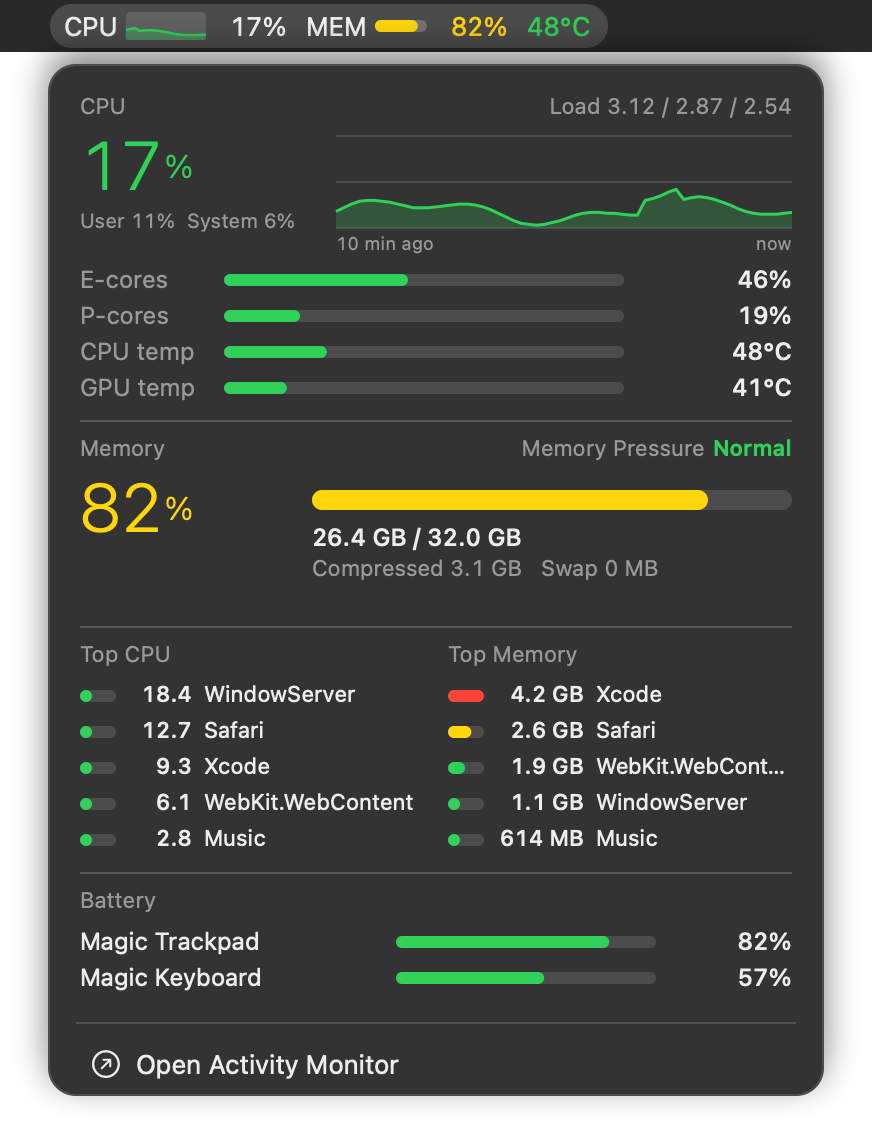
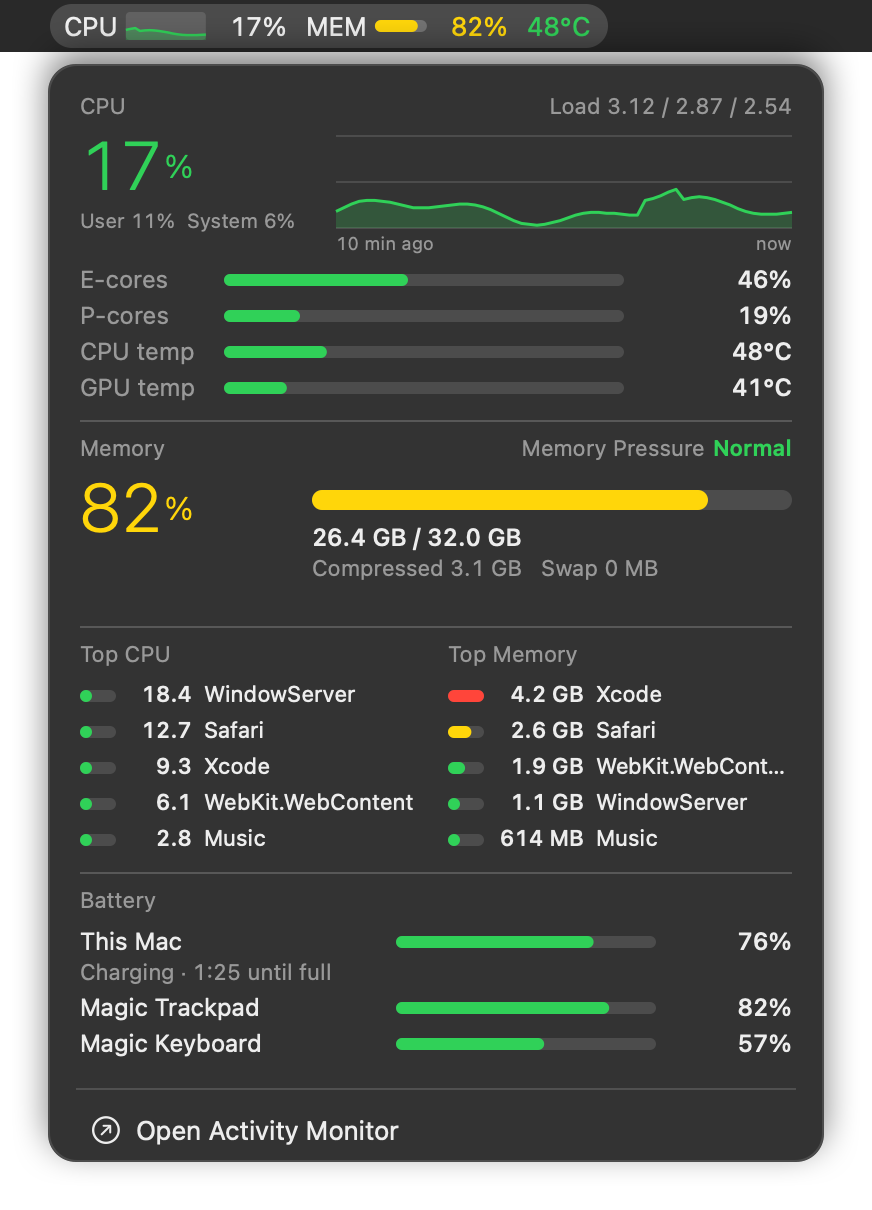
sysmon: MacBook の本体のバッテリーの残量と、充電の状態・残り時間を出す
IOKit の電源の API (IOPSCopyPowerSourcesInfo) から、本体のバッテリーの残量、
電源につながっているか、充電中か、充電済みか、残り時間・満充電までの時間を
読む。カードのバッテリーの節の先頭に「この Mac」の行を足し、その下に状態を出す。

  充電中・満充電まで 1:25 / バッテリー駆動・残り 4:10 /
  電源に接続・充電済み / 電源に接続・充電していない (時間が分からなければ「計算中…」)

API を呼ぶだけで軽いので、Bluetooth 機器 (60 秒ごとに ioreg を起動する) と違い
毎回 (10 秒ごと) 読む。デスクトップには本体のバッテリーが無いので、表示は変わらない。
README の画像のサンプルにも、充電中の本体のバッテリーを足した。

diff --git a/Sources/sysmon/main.swift b/Sources/sysmon/main.swift
@@ -32,6 +32,7 @@ import Shared
 #endif
 import Darwin
 import IOKit
+import IOKit.ps
 
 struct CPU: Codable {
     let total: Double
@@ -64,6 +65,28 @@ struct Proc: Codable {
 struct Battery: Codable {
     let name: String
     let percent: Double
+    // 以下は Mac 本体のバッテリーのときだけ
+    var `internal`: Bool? = nil
+    var external: Bool? = nil // 電源につながっている
+    var charging: Bool? = nil
+    var charged: Bool? = nil
+    var minutes: Int? = nil   // 残り時間 (電源につながっていないとき) か満充電までの時間。分からなければ nil
+}
+
+// 本体のバッテリーの状態の文。例: 「充電中・満充電まで 1:25」
+func batteryStatus(_ b: Battery) -> String? {
+    guard b.internal == true else { return nil }
+    let time = b.minutes.map { String(format: "%d:%02d", $0 / 60, $0 % 60) }
+    let sep = L("・", " · ")
+    if b.external != true {
+        return L("バッテリー駆動", "On battery") + sep + (time.map { L("残り \($0)", "\($0) remaining") } ?? L("計算中…", "Calculating…"))
+    }
+    if b.charged == true || b.percent >= 100 { return L("電源に接続", "On power") + sep + L("充電済み", "Fully charged") }
+    if b.charging == true {
+        return L("充電中", "Charging") + sep + (time.map { L("満充電まで \($0)", "\($0) until full") } ?? L("計算中…", "Calculating…"))
+    }
+    // 電源につながっているが充電していない (バッテリー充電の最適化で止めているときなど)
+    return L("電源に接続", "On power") + sep + L("充電していない", "Not charging")
 }
 
 struct Input: Codable {
@@ -105,7 +128,9 @@ func renderAll(_ input: Input) -> [String] {
     let memH: CGFloat = 20 + 52 + 18
     let procRows = max(input.procCpu.count, input.procMem.count)
     let procH: CGFloat = procRows > 0 ? 20 + 18 * CGFloat(procRows) : 0
-    let batH: CGFloat = input.battery.isEmpty ? 0 : 20 + 18 * CGFloat(input.battery.count)
+    // 本体のバッテリーは、状態の文の行のぶん高い
+    let batRowH: [CGFloat] = input.battery.map { batteryStatus($0) == nil ? 18 : 33 }
+    let batH: CGFloat = input.battery.isEmpty ? 0 : 20 + batRowH.reduce(0, +)
     let sections = [cpuH, memH, procH, batH].filter { $0 > 0 }
     let height = sections.reduce(0, +) + gap * CGFloat(max(sections.count - 1, 0))
     let scale: CGFloat = 2
@@ -306,13 +331,16 @@ func renderAll(_ input: Input) -> [String] {
     if !input.battery.isEmpty {
         text(L("バッテリー", "Battery"), x: pad, y: top, size: 11, color: sub)
         var ry = top + 20
-        for b in input.battery {
+        for (b, h) in zip(input.battery, batRowH) {
             // 残量は少ないほど危ないので、少ないときに黄・赤にする
             let col = b.percent < 20 ? red : b.percent < 40 ? yellow : green
-            text(b.name, x: pad, y: ry, size: 12, maxWidth: 150)
+            text(b.internal == true ? L("この Mac", "This Mac") : b.name, x: pad, y: ry, size: 12, maxWidth: 150)
             bar(x: 160, y: ry + 5, w: 130, value: b.percent, color: col)
             text("\(fmt(b.percent))%", x: width - pad, y: ry, size: 12, weight: .medium, align: .right)
-            ry += 18
+            if let status = batteryStatus(b) {
+                text(status, x: pad, y: ry + 16, size: 11, color: sub)
+            }
+            ry += h
         }
         top += batH
     }
@@ -652,6 +680,25 @@ func bluetoothNames() -> [String: String] {
     return names
 }
 
+// Mac 本体のバッテリー (MacBook)。デスクトップには無いので nil。
+func internalBattery() -> Battery? {
+    guard let info = IOPSCopyPowerSourcesInfo()?.takeRetainedValue(),
+          let list = IOPSCopyPowerSourcesList(info)?.takeRetainedValue() as? [CFTypeRef] else { return nil }
+    for ps in list {
+        guard let d = IOPSGetPowerSourceDescription(info, ps)?.takeUnretainedValue() as? [String: Any],
+              d[kIOPSTypeKey] as? String == kIOPSInternalBatteryType,
+              let cur = d[kIOPSCurrentCapacityKey] as? Int, let max = d[kIOPSMaxCapacityKey] as? Int, max > 0 else { continue }
+        let external = d[kIOPSPowerSourceStateKey] as? String == kIOPSACPowerValue
+        let charging = d[kIOPSIsChargingKey] as? Bool ?? false
+        // 時間は分で、計算中は -1
+        let minutes = (external ? d[kIOPSTimeToFullChargeKey] : d[kIOPSTimeToEmptyKey]) as? Int
+        return Battery(name: "", percent: (Double(cur) / Double(max) * 100).rounded(), internal: true, external: external,
+                       charging: charging, charged: d[kIOPSIsChargedKey] as? Bool,
+                       minutes: minutes.flatMap { $0 > 0 ? $0 : nil })
+    }
+    return nil
+}
+
 func batteries(_ names: [String: String]) -> [Battery] {
     guard let s = run("/usr/sbin/ioreg", ["-r", "-k", "BatteryPercent", "-l"]) else { return [] }
     var out: [Battery] = []
@@ -755,7 +802,9 @@ while true {
                                    load: String(format: "%.2f / %.2f / %.2f", la[0], la[1], la[2]),
                                    temp: smc?.cpuTemp?.rounded(), gpu: smc?.gpuTemp?.rounded(),
                                    hist: history),
-                          mem: memory(), procCpu: procCpu, procMem: procMem, battery: bats)
+                          mem: memory(), procCpu: procCpu, procMem: procMem,
+                          // 本体のバッテリーは毎回読む (API を呼ぶだけで軽い)
+                          battery: (internalBattery().map { [$0] } ?? []) + bats)
         let o = renderAll(input)
         var lines: [String] = []
         if o.count == 5 {

diff --git a/README.ja.md b/README.ja.md
@@ -7,7 +7,7 @@
 | プラグイン | メニューバー | カード |
 |---|---|---|
 | `nowplaying` | Music.app で再生中の曲のアートワークと曲名 | アートワーク・曲名・アーティスト・アルバム・再生位置と、一時停止・次の曲の項目 |
-| `sysmon` | CPU の推移と使用率、メモリ、温度 | CPU (使用率・過去 10 分の推移・E / P コア・温度)、メモリ、CPU とメモリを使っているプロセスの上位、Bluetooth 機器のバッテリー |
+| `sysmon` | CPU の推移と使用率、メモリ、温度 | CPU (使用率・過去 10 分の推移・E / P コア・温度)、メモリ、CPU とメモリを使っているプロセスの上位、バッテリー (MacBook では本体の残量と、充電中か・残り時間・満充電までの時間。Bluetooth 機器の残量も) |
 | `weather` | 今日の天気のアイコン、現在の気温、降水確率 | 気象庁のデータによる現在の観測値、今後 24 時間の気温のグラフ、地方の予報、週間予報 |
 
 カードは小さな Swift のプログラムが描き、画像として SwiftBar に渡します。ライトモードとダークモードで別の色を使います。表示は macOS の言語の設定に合わせて、日本語か英語になります。

diff --git a/README.md b/README.md
@@ -7,7 +7,7 @@
 | Plugin | Menu bar | Card |
 |---|---|---|
 | `nowplaying` | Artwork and title of the track playing in Music.app | Artwork, title, artist, album, and playback position, with play/pause and next-track items |
-| `sysmon` | CPU history and usage, memory, and temperature | CPU (usage, last 10 minutes, E/P cores, temperatures), memory, top processes by CPU and memory, and Bluetooth device batteries |
+| `sysmon` | CPU history and usage, memory, and temperature | CPU (usage, last 10 minutes, E/P cores, temperatures), memory, top processes by CPU and memory, and batteries: the Mac's own battery (on a MacBook, with charging status and time remaining or until full) and Bluetooth devices |
 | `weather` | Today's weather icon, current temperature, and chance of rain | Current observations, a 24-hour temperature graph, the regional forecast, and the weekly forecast from the Japan Meteorological Agency (JMA) |
 
 Each card is drawn by a small Swift program and passed to SwiftBar as an image, with separate colors for light and dark appearances. The plugins show English or Japanese text, following the language setting of macOS.
